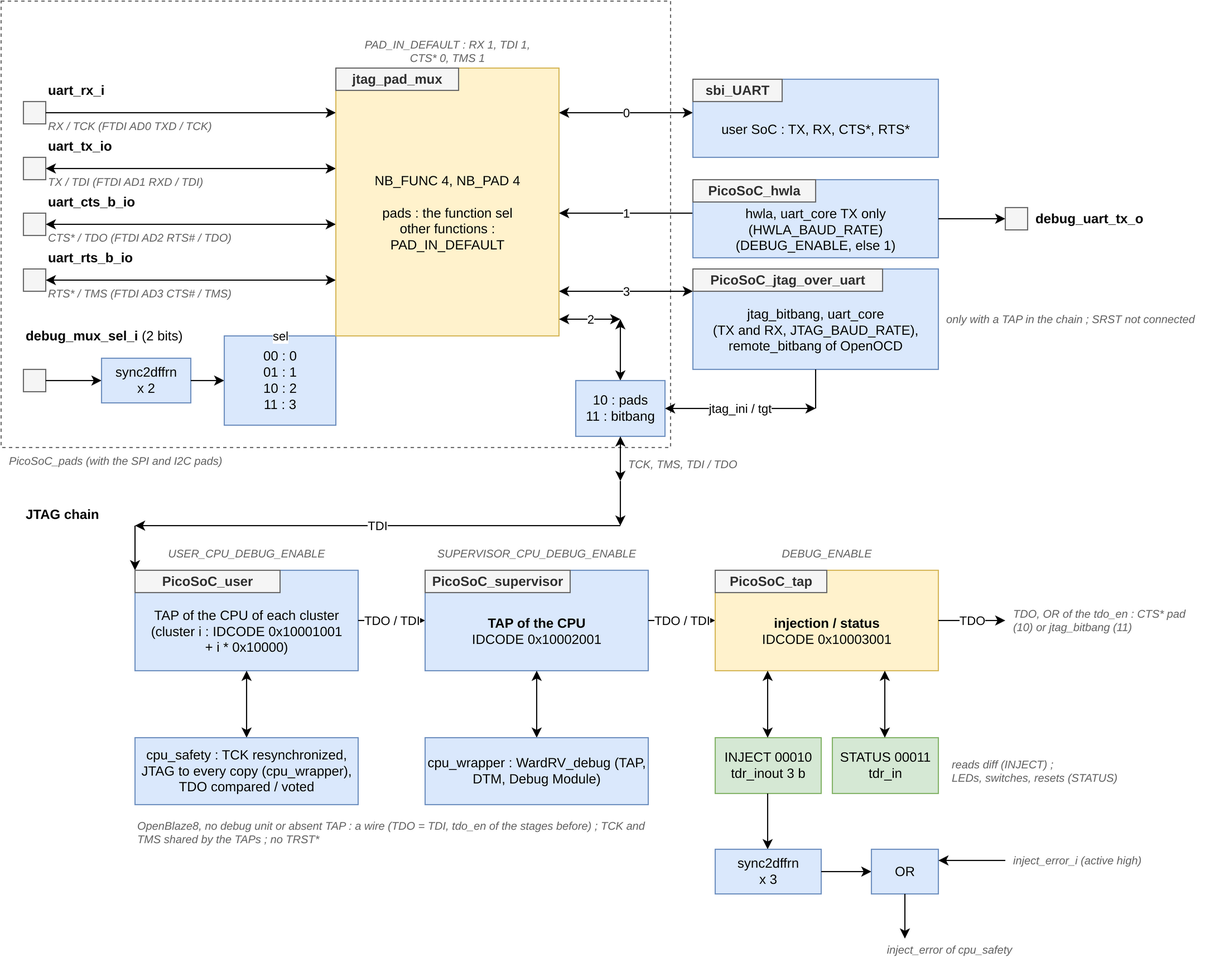
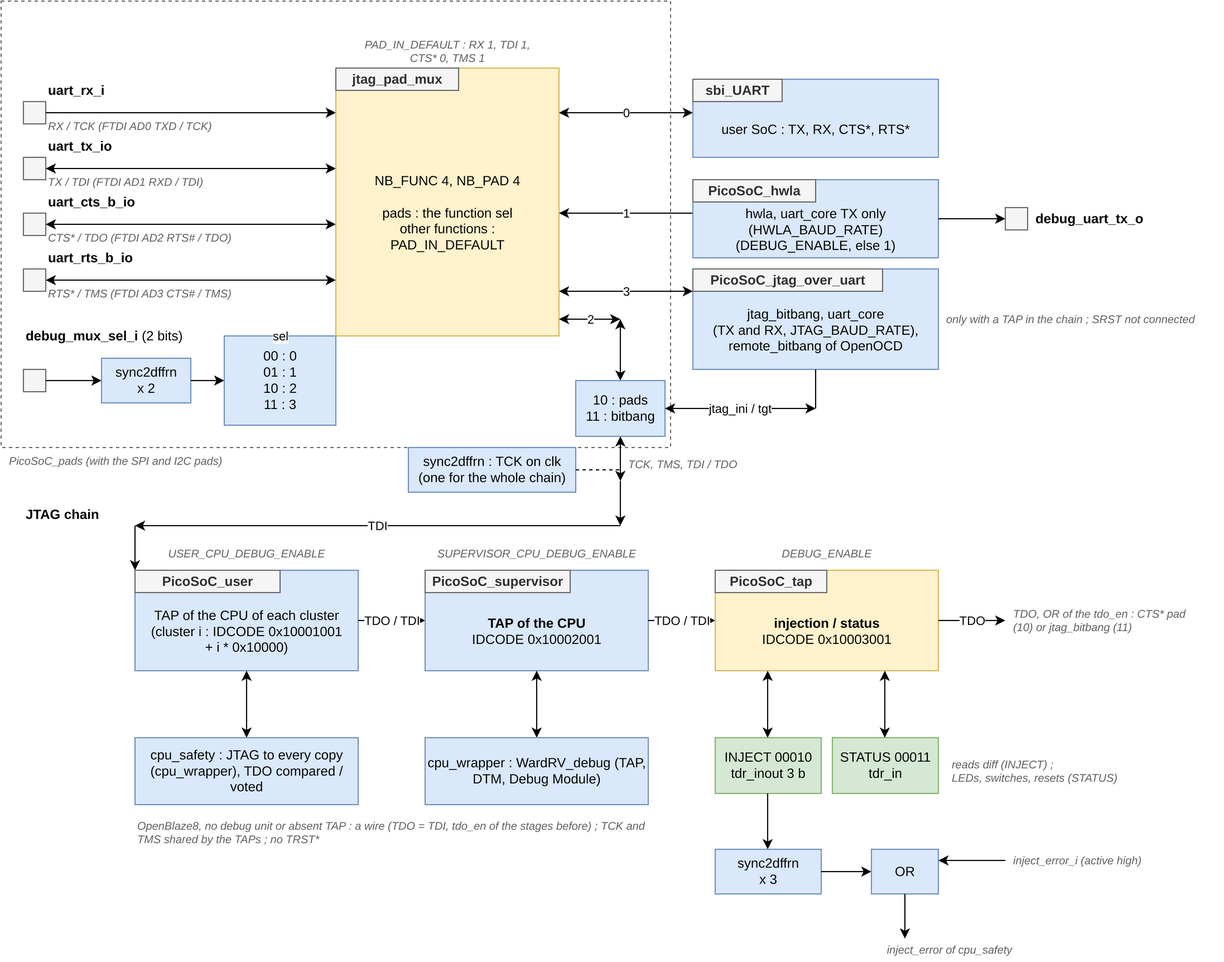
PicoSoC - README : JTAG timing (one TCK synchronizer in PicoSoC_top, where and why, TDO along the chain on the same TCK, TMS / TDI hold), CPU debug units, hierarchy, Resources note, mutant without the global synchronizer (jtag_glitch) ; doc : jtag diagram ; tb comments

Changed region(s): [[0.3099, 0.4611, 0.4959, 0.5226], [0.124, 0.7686, 0.2789, 0.83]]

diff --git a/README.md b/README.md
@@ -349,7 +349,7 @@ With the HWLA ([Debug: HWLA](#debug-hwla)) and the injection / status TAP: the s
 | `syn_wardrv_soc1` (WardRV_fsm) | 2612 | 220 | 1571 | 79 | 165 | 1 | 0 | 13 | 385049.29 | 102.581 |
 | `syn_wardrv_soc4_ng_medium` (WardRV_fsm) | 5785 | 420 | 2638 | 129 | 675 | 2 | 0 | 7 | 600440.87 | 159.964 |
 
-The HWLA and its UART (`PicoSoC_hwla`) cost about 180 to 260 LUTs, 100 (OpenBlaze8) or 116 (WardRV_fsm) LUTRAM for its RAM of 64 x 73 or 87 bits (default `HWLA_*` generics), 280 to 330 flip-flops and 17 CARRY4 on Artix-7, and 170000 to 210000 µm² in sky130, where its RAM becomes flip-flops. The injection / status TAP adds about 80 to 90 flip-flops (its IDCODE, IR and TDR shift registers, the INJECT register and its synchronizers) and up to about 130 LUTs (the LUT count of the `DEBUG_ENABLE` configurations moves with the technology mapping); the CPU debug units (`syn_wardrv_soc4_ng_medium_debug` against `syn_wardrv_soc4_ng_medium` with `DEBUG_ENABLE`) about 3600 LUTs and 1800 flip-flops: a debug unit (TAP, DTM, Debug Module) in each of the 4 WardRV_fsm (3 user copies in TMR and the supervisor) and their debug logic. JTAG over the UART (`jtag_bitbang` and its `uart_core`: receiver and transmitter, their two 16-bit baud rate counters and the RX synchronizer, only with a TAP in the chain) costs about 94 flip-flops, 8 CARRY4, 80 to 160 LUTs and 3600 to 7000 µm² (about 1 to 2 kGE). The first table is measured on 4.4.0 (`uart_core` of asylum-communication-uart 3.1.0 in `PicoSoC_hwla` and `PicoSoC_jtag_over_uart`, `sbi_UART` 3.1.0 built on `uart_core` too): against 4.3.0, the same flip-flops, LUTRAM, CARRY4, BRAM and TBUF in every configuration (the RX synchronizer of JTAG over the UART moved into `uart_core`; the CTS\* synchronizers of the two `uart_core`, whose input is tied to `'0'`, their reset value, are removed by Yosys), the LUT, MUXF and area figures move with the technology mapping only (LUT within 3 %; renaming the `uart_core` instance of `PicoSoC_jtag_over_uart` alone moves `syn_wardrv_soc4_ng_medium_debug` by 40 LUTs and 60 MUXF). The refactoring of 4.3.0 (`cpu_safety`, `PicoSoC_clkrst`, `PicoSoC_jtag_over_uart`), against 4.2.0: the same flip-flops, LUTRAM, CARRY4, BRAM and TBUF in every configuration, the LUT, MUXF and area figures move with the technology mapping only (LUT within 2 %); with `debug_mux_sel_i` the NG-MEDIUM configurations have 4 switches instead of 6: 8 (10 with the status TAP) flip-flops less (the input stages of the 2 switches of the GPIO, their bits of the status TDR); the `DEBUG_ENABLE` table is measured on 4.5.0 (default `HWLA_*` generics): against its 4.2.0 figures, the same LUTRAM, CARRY4, BRAM and TBUF, 2 flip-flops less in `soc1` and 11 less in `soc4_ng_medium` (which has 2 switches less since 4.3.0), the LUT count within 2 %. The configurations without TAP (the first four `syn_*` rows) have no `jtag_bitbang`: the same flip-flops, LUTRAM, CARRY4, BRAM and TBUF as 4.1.0, the LUT count moves with the technology mapping. The two synchronizers of `debug_mux_sel_i` (pad multiplexer) add 4 flip-flops to every configuration; the TCK synchronizers of the injection / status TAP and of the supervisor CPU debug unit (4.7.2, not measured in these tables) add 2 flip-flops each where they exist; the other small differences between versions come from the technology mapping, which changes with the order and the names of the cells of the netlist.
+The HWLA and its UART (`PicoSoC_hwla`) cost about 180 to 260 LUTs, 100 (OpenBlaze8) or 116 (WardRV_fsm) LUTRAM for its RAM of 64 x 73 or 87 bits (default `HWLA_*` generics), 280 to 330 flip-flops and 17 CARRY4 on Artix-7, and 170000 to 210000 µm² in sky130, where its RAM becomes flip-flops. The injection / status TAP adds about 80 to 90 flip-flops (its IDCODE, IR and TDR shift registers, the INJECT register and its synchronizers) and up to about 130 LUTs (the LUT count of the `DEBUG_ENABLE` configurations moves with the technology mapping); the CPU debug units (`syn_wardrv_soc4_ng_medium_debug` against `syn_wardrv_soc4_ng_medium` with `DEBUG_ENABLE`) about 3600 LUTs and 1800 flip-flops: a debug unit (TAP, DTM, Debug Module) in each of the 4 WardRV_fsm (3 user copies in TMR and the supervisor) and their debug logic. JTAG over the UART (`jtag_bitbang` and its `uart_core`: receiver and transmitter, their two 16-bit baud rate counters and the RX synchronizer, only with a TAP in the chain) costs about 94 flip-flops, 8 CARRY4, 80 to 160 LUTs and 3600 to 7000 µm² (about 1 to 2 kGE). The first table is measured on 4.4.0 (`uart_core` of asylum-communication-uart 3.1.0 in `PicoSoC_hwla` and `PicoSoC_jtag_over_uart`, `sbi_UART` 3.1.0 built on `uart_core` too): against 4.3.0, the same flip-flops, LUTRAM, CARRY4, BRAM and TBUF in every configuration (the RX synchronizer of JTAG over the UART moved into `uart_core`; the CTS\* synchronizers of the two `uart_core`, whose input is tied to `'0'`, their reset value, are removed by Yosys), the LUT, MUXF and area figures move with the technology mapping only (LUT within 3 %; renaming the `uart_core` instance of `PicoSoC_jtag_over_uart` alone moves `syn_wardrv_soc4_ng_medium_debug` by 40 LUTs and 60 MUXF). The refactoring of 4.3.0 (`cpu_safety`, `PicoSoC_clkrst`, `PicoSoC_jtag_over_uart`), against 4.2.0: the same flip-flops, LUTRAM, CARRY4, BRAM and TBUF in every configuration, the LUT, MUXF and area figures move with the technology mapping only (LUT within 2 %); with `debug_mux_sel_i` the NG-MEDIUM configurations have 4 switches instead of 6: 8 (10 with the status TAP) flip-flops less (the input stages of the 2 switches of the GPIO, their bits of the status TDR); the `DEBUG_ENABLE` table is measured on 4.5.0 (default `HWLA_*` generics): against its 4.2.0 figures, the same LUTRAM, CARRY4, BRAM and TBUF, 2 flip-flops less in `soc1` and 11 less in `soc4_ng_medium` (which has 2 switches less since 4.3.0), the LUT count within 2 %. The configurations without TAP (the first four `syn_*` rows) have no `jtag_bitbang`: the same flip-flops, LUTRAM, CARRY4, BRAM and TBUF as 4.1.0, the LUT count moves with the technology mapping. The two synchronizers of `debug_mux_sel_i` (pad multiplexer) add 4 flip-flops to every configuration; 4.7.2 (not measured in these tables) has one TCK synchronizer for the whole JTAG chain in `PicoSoC_top` (2 flip-flops, removed by the synthesis without a TAP) in place of one per TAP (2 flip-flops in each user CPU cluster with a debug unit, in the supervisor CPU debug unit, in the injection / status TAP); the other small differences between versions come from the technology mapping, which changes with the order and the names of the cells of the netlist.
 
 ¹ Xilinx Artix-7 (LUT6), Yosys 0.33 `synth_xilinx -flatten -noiopad -noclkbuf`, before place and route: every cell of the netlist is counted, Vivado may differ. An `INV` counts as a `LUT1`. The user ROM goes to BRAM (a `RAMB18E1` counts 0.5), the RAMs and FIFOs mostly to LUTRAM. TBUF: tristate pad buffers (the OBUFT / IOBUF of the I/O blocks, not logic, never in LUT), one per pad whose output enable is not constant: the SPI data lanes (8 in `soc1`, 2 with the NG-MEDIUM generics; SCLK and CS\* are plain outputs), I2C SCL and SDA, and the 3 inout UART pads (TX / TDI, CTS\* / TDO, RTS\* / TMS). The logic that drives the pads (data and output enables, TDO of the JTAG chain) is counted. These figures need `asylum:utils:yosys_synth` >= 1.1.0: older versions lost the logic behind the `inout` pads of component instances (a GHDL synthesis issue) and rejected the tristate buffers.
 
@@ -370,11 +370,11 @@ The NG-MEDIUM board targets (`emu_ng_medium_*`) need NXmap, which is not in the 
 | [hdl/PicoSoC_pads.vhd](hdl/PicoSoC_pads.vhd) | `PicoSoC_pads` | Pads: UART pads shared by the user UART, the HWLA UART, the JTAG chain and JTAG over the UART (`jtag_pad_mux`, `debug_mux_sel_i` synchronizers and select; the JTAG chain driven by the pads or by `jtag_bitbang`), SPI pads (`obuf`, `iobuf`), I2C open-drain pads |
 | [hdl/PicoSoC_hwla.vhd](hdl/PicoSoC_hwla.vhd) | `PicoSoC_hwla` | HWLA of the top: `hwla` on the probes (unconstrained `probe_i`: the width comes from the actual) and the trigger, its captures on a UART 8N1 at `HWLA_BAUD_RATE` (`uart_core`, transmitter only) |
 | [hdl/PicoSoC_jtag_over_uart.vhd](hdl/PicoSoC_jtag_over_uart.vhd) | `PicoSoC_jtag_over_uart` | JTAG over the UART pads (`debug_mux_sel_i` `11`): `uart_core` (receiver and transmitter, `JTAG_BAUD_RATE`, RX synchronizer inside) and `jtag_bitbang`; its JTAG pins drive the chain, the TDO of the chain comes back |
-| [hdl/PicoSoC_tap.vhd](hdl/PicoSoC_tap.vhd) | `PicoSoC_tap` | Injection / status TAP of the top (`DEBUG_ENABLE`): `jtag_tap`, the instruction decoder, the INJECT (`jtag_tdr_inout`, read diff) and STATUS (`jtag_tdr_in`, unconstrained `status_i`) registers, the synchronizers of TCK and of the injection; one stage of the JTAG chain (the top chains the stages) |
+| [hdl/PicoSoC_tap.vhd](hdl/PicoSoC_tap.vhd) | `PicoSoC_tap` | Injection / status TAP of the top (`DEBUG_ENABLE`): `jtag_tap`, the instruction decoder, the INJECT (`jtag_tdr_inout`, read diff) and STATUS (`jtag_tdr_in`, unconstrained `status_i`) registers, the synchronizers of the injection; one stage of the JTAG chain (the top chains the stages) |
 | [hdl/PicoSoC_inject.vhd](hdl/PicoSoC_inject.vhd) | `PicoSoC_inject` | Error injection of the top: the push buttons resynchronized, ORed with the INJECT requests of the TAP, one trap per copy of the CPU (set by a request, cleared by the difference flags of the copy or a 1 -> 0 of the TAP request), power-on reset |
 | [hdl/PicoSoC_user.vhd](hdl/PicoSoC_user.vhd) | `PicoSoC_user` | User SoC: CPU clusters (`cpu_safety`, `ROM_user`, ICN1, GIC, RAM1), ICN2 and the shared peripherals |
 | [hdl/PicoSoC_supervisor.vhd](hdl/PicoSoC_supervisor.vhd) | `PicoSoC_supervisor` | Supervisor SoC: CPU (TCK of its debug unit resynchronized), `ROM_supervisor`, ICN, 2 GPIO, GIC, RAM |
-| [hdl/cpu_safety.vhd](hdl/cpu_safety.vhd) | `cpu_safety` | 1, 2 or 3 copies of the CPU (one generate; records of the inputs and of the outputs of a copy), lock-step delay line and compare, TMR vote, fault injection, JTAG pins of the copies (TCK resynchronized) |
+| [hdl/cpu_safety.vhd](hdl/cpu_safety.vhd) | `cpu_safety` | 1, 2 or 3 copies of the CPU (one generate; records of the inputs and of the outputs of a copy), lock-step delay line and compare, TMR vote, fault injection, JTAG pins of the copies (TCK already resynchronized by `PicoSoC_top`) |
 | [hdl/cpu_wrapper.vhd](hdl/cpu_wrapper.vhd) | `cpu_wrapper` | `sbi_OpenBlaze8` or `sbi_WardRV_fsm` from `CPU_MODEL`; with `DEBUG_ENABLE` (WardRV_fsm) its debug unit `WardRV_debug`, else TDO = TDI |
 | [hdl/PicoSoC_pkg.vhd](hdl/PicoSoC_pkg.vhd) | `PicoSoC_pkg` | Address maps, GIC source indexes, JTAG IDCODEs and instructions, debug records, `active_high` (polarity of an input), components |
 | (generated) | `ROM_user`, `ROM_supervisor` | Program ROMs built from [esw/](esw/) by `pbcc_gen` / `rvcc_gen` |
@@ -500,7 +500,7 @@ Switch the mode of the FPGA before starting the terminal or OpenOCD on the cable
 
 The IDCODEs (`PICOSOC_JTAG_IDCODE_*` of `PicoSoC_pkg`) are version 1, manufacturer 0, part number `0x0001` + `0x10` x `i` for the user CPU of cluster `i`, 2 for the supervisor CPU, 3 for the injection / status TAP.
 
-**Injection / status TAP** (`DEBUG_ENABLE`, `PicoSoC_tap` in [hdl/PicoSoC_tap.vhd](hdl/PicoSoC_tap.vhd)): a `jtag_tap` with its instruction decoder and two test data registers, in the TCK domain (TCK resynchronized on the SoC clock, see JTAG timing below):
+**Injection / status TAP** (`DEBUG_ENABLE`, `PicoSoC_tap` in [hdl/PicoSoC_tap.vhd](hdl/PicoSoC_tap.vhd)): a `jtag_tap` with its instruction decoder and two test data registers, in the TCK domain (the TCK resynchronized on the SoC clock by `PicoSoC_top`, see JTAG timing below):
 
 | Instruction | TDR | Bits (from the LSB, first shifted out) |
 |-------------|-----|----------------------------------------|
@@ -509,9 +509,9 @@ The IDCODEs (`PICOSOC_JTAG_IDCODE_*` of `PicoSoC_pkg`) are version 1, manufactur
 
 The injection written by an Update-DR (falling edge of TCK) goes through a `sync2dffrn` per bit to the SoC clock, then is ORed with `inject_error_i` after its polarity (`USER_FAULT_POLARITY`) and resynchronized, in `PicoSoC_inject`: either sets the trap of the copy (see [CPU safety](#cpu-safety)). The written value stays until the next scan of INJECT, a Test-Logic-Reset or the power-on reset; a bit written back to 0 clears the trap of its copy (the way to stop an error without safety, where no difference flag clears it). The read values are quasi-static (LEDs, switches, sticky difference flags, resets): they are loaded in Capture-DR without synchronizer, a bit that changes during the capture may be read old or new.
 
-**CPU debug units** (`USER_CPU_DEBUG_ENABLE`, `SUPERVISOR_CPU_DEBUG_ENABLE`, `CPU_MODEL = "WardRV_fsm"`): each `cpu_wrapper` with `DEBUG_ENABLE` instantiates `WardRV_debug` of [asylum-processor-WardRV](https://github.com/deuskane/asylum-processor-WardRV) (TAP, DTM, Debug Module with a program buffer of 2 words and 2 data registers, no system bus access, no TRST*) next to its `sbi_WardRV_fsm`: the halt requests and the debug memory stay inside `cpu_wrapper`, which only has the JTAG pins, the power-on reset of the debug unit and `ndmreset`. With lock-step or TMR, every copy of the CPU has its debug unit: `cpu_safety` resynchronizes TCK on the SoC clock (`sync2dffrn`), then gives the JTAG pins to every copy like their other inputs (to CPU1 through the lock-step delay line), and checks their TDO and `ndmreset` like their other outputs (compared with CPU0, which drives them, in lock-step; voted in TMR). So a halted, stepped or resumed CPU stays in lock-step: no difference flag. The supervisor CPU has no copy: `PicoSoC_supervisor` resynchronizes the TCK of its debug unit the same way. The debug units are reset by the reset of the supervisor (power-on), not by a reset of the user SoC; `ndmreset` of a debug unit resets the SoC of its CPU (the supervisor SoC holds the user SoC in reset).
+**CPU debug units** (`USER_CPU_DEBUG_ENABLE`, `SUPERVISOR_CPU_DEBUG_ENABLE`, `CPU_MODEL = "WardRV_fsm"`): each `cpu_wrapper` with `DEBUG_ENABLE` instantiates `WardRV_debug` of [asylum-processor-WardRV](https://github.com/deuskane/asylum-processor-WardRV) (TAP, DTM, Debug Module with a program buffer of 2 words and 2 data registers, no system bus access, no TRST*) next to its `sbi_WardRV_fsm`: the halt requests and the debug memory stay inside `cpu_wrapper`, which only has the JTAG pins, the power-on reset of the debug unit and `ndmreset`. With lock-step or TMR, every copy of the CPU has its debug unit: `cpu_safety` receives a TCK already resynchronized on the SoC clock (by `PicoSoC_top`, see JTAG timing below) and gives the JTAG pins to every copy like their other inputs (to CPU1 through the lock-step delay line), and checks their TDO and `ndmreset` like their other outputs (compared with CPU0, which drives them, in lock-step; voted in TMR). So a halted, stepped or resumed CPU stays in lock-step: no difference flag. The supervisor CPU has no copy: `PicoSoC_supervisor` gives the JTAG pins to its debug unit. The debug units are reset by the reset of the supervisor (power-on), not by a reset of the user SoC; `ndmreset` of a debug unit resets the SoC of its CPU (the supervisor SoC holds the user SoC in reset).
 
-**JTAG timing.** Every TAP of the chain resynchronizes TCK on the SoC clock with the same `sync2dffrn`, reset by the reset of the supervisor (power-on): `cpu_safety` for the user CPU debug units, `PicoSoC_supervisor` for the supervisor CPU debug unit, `PicoSoC_tap` for the injection / status TAP. No TAP is clocked by the TCK pad (or by `tck_r` of `jtag_bitbang`): they all see the same TCK, 2 to 3 SoC clock cycles late. This is not a protocol change (IEEE 1149.1 behaviour unchanged, the probes change TMS and TDI on the falling edge of TCK and sample TDO on the rising edge), but a limit on TCK:
+**JTAG timing.** One `sync2dffrn` in `PicoSoC_top` resynchronizes TCK on the SoC clock for the whole chain, reset by the reset of the supervisor (power-on). It is after the pad multiplexer of `PicoSoC_pads`, so it serves both modes (the TCK pad in mode `10`, `tck_r` of `jtag_bitbang` in mode `11`): one place, the same path in both modes, and a glitch of the multiplexer when the mode changes is filtered too. Every TAP (the user CPU debug units in `cpu_safety`, the supervisor CPU debug unit, the injection / status TAP) gets this TCK: no TAP is clocked by the TCK pad, they all see the same TCK, 2 to 3 SoC clock cycles after the pad, and move on the same SoC clock edge. Only TCK is resynchronized: TMS and TDI go straight to the TAPs. This is not a protocol change (IEEE 1149.1 behaviour unchanged, the probes change TMS and TDI on the falling edge of TCK and sample TDO on the rising edge), but a limit on TCK:
 
 | Parameter | Value |
 |-----------|-------|
@@ -519,9 +519,9 @@ The injection written by an Update-DR (falling edge of TCK) goes through a `sync
 | TMS, TDI hold after the rising edge of TCK | about 3 SoC clock cycles (the edge is seen up to 3 cycles later) |
 | TDO valid after the falling edge of TCK | about 3 SoC clock cycles |
 
-A probe faster than this limit can miss TCK pulses (the scans then fail). Along the chain, a TAP changes its TDO on the falling edge of its resynchronized TCK and the next TAP (its TDI) samples it on the rising edge of its own, half a TCK period later (more than 3 SoC clock cycles); two synchronizers may see a TCK edge one SoC clock cycle apart (an edge in the metastable window of one of them), far less than this margin. The last TDO reaches the probe about 3 SoC clock cycles after the falling edge of the pad, before the next rising edge where the probe samples it.
+A probe faster than this limit can miss TCK pulses (the scans then fail). Along the chain, a TAP changes its TDO on the falling edge of the resynchronized TCK and the next TAP (its TDI) samples it on the rising edge of the same TCK, half a TCK period later (more than 3 SoC clock cycles): every TAP is on the same TCK, there is no skew between them. TMS and TDI, changed by the probe on the falling edge of the pad, are sampled on the rising edge of the resynchronized TCK, 2 to 3 SoC clock cycles after the rising edge of the pad: they must hold that long (the line above), which a TCK high time of more than 3 SoC clock cycles gives. The last TDO reaches the probe about 3 SoC clock cycles after the falling edge of the pad, before the next rising edge where the probe samples it.
 
-Why every TAP: a TAP clocked by the TCK pad takes every glitch or ringing of the TCK wire as an edge, and an edge too close to a change of TMS may be taken with the old TMS. The synchronizer samples the pad once per SoC clock cycle, so a bounce on an edge shorter than a SoC clock period gives one edge, and TMS and TDI are sampled 2 to 3 cycles after the edge of the pad. On the NG-MEDIUM board (`emu_ng_medium_soc3_wardrv_fsm_fault_debug`, FT232R in synchronous bitbang at 10 kHz, mode `10`), the injection / status TAP, then the only one clocked by the pad besides the supervisor CPU debug unit, lost its state: the 3 IDCODEs were read, then OpenOCD failed from time to time (`auto0.tap IR capture error` on this TAP only, `Unsupported DTM version 9`: the STATUS of this TAP read instead of `dtmcs`, `picosoc_status` all zeros) until a reset of the board, while JTAG over the UART (mode `11`, TCK made inside the FPGA on the SoC clock) always worked. The scenario `jtag_glitch` reads the IDCODEs of the chain with a bounce on every TCK edge of the scan: it passes with the resynchronized TCK and fails when one TAP is clocked by the pad.
+Why a resynchronized TCK for every TAP: a TAP clocked by the TCK pad takes every glitch or ringing of the TCK wire as an edge, and an edge too close to a change of TMS may be taken with the old TMS. The synchronizer samples the pad once per SoC clock cycle, so a bounce on an edge shorter than a SoC clock period gives one edge, and TMS and TDI are sampled 2 to 3 cycles after the edge of the pad. Why one synchronizer: every TAP sees exactly the same edges (with one synchronizer per TAP, an edge in the metastable window could be seen one SoC clock cycle apart by two TAPs), there is one place to read, and `cpu_safety`, rewritten by the students, only receives a TCK already on the SoC clock. On the NG-MEDIUM board (`emu_ng_medium_soc3_wardrv_fsm_fault_debug`, FT232R in synchronous bitbang at 10 kHz, mode `10`), the injection / status TAP, then clocked by the pad like the supervisor CPU debug unit (only the user CPU debug units resynchronized TCK, in `cpu_safety`), lost its state: the 3 IDCODEs were read, then OpenOCD failed from time to time (`auto0.tap IR capture error` on this TAP only, `Unsupported DTM version 9`: the STATUS of this TAP read instead of `dtmcs`, `picosoc_status` all zeros) until a reset of the board, while JTAG over the UART (mode `11`, TCK made inside the FPGA on the SoC clock) always worked. The scenario `jtag_glitch` reads the IDCODEs of the chain with a bounce on every TCK edge of the scan: it passes with the resynchronized TCK and fails without the synchronizer of `PicoSoC_top`.
 
 The testbench uses TCK = 1 µs; the co-simulation with OpenOCD runs at the limit (TCK = `FSYS_INT` / 8, see [Co-simulation with OpenOCD and GDB](#co-simulation-with-openocd-and-gdb)). JTAG over the UART (mode `11`) is always far below this limit: a TCK edge per command byte, at least 10 bit times.
 
@@ -989,9 +989,9 @@ The scenario `hwla` was validated with 21 mutants in copies of the RTL, both CPU
 
 The UART pads and the JTAG scenarios were validated with 30 mutants in copies of the RTL, each scenario run alone on the 3 JTAG configurations (and `fault_diff` for the buttons), 420 runs: pad select decode (`10`, `01`, wrong switch bit), TDO of the chain from another TAP, a CPU TAP missing from the chain, injection without the buttons, without the TDR, ORed before the polarity or inverted, INJECT / STATUS decoded the other way round, diff not read, STATUS fields swapped, output enables stuck or wrong in one mode (RTS* / TMS stuck at 1 or 0, CTS* / TDO driven in a UART mode, TX / TDI driven in the JTAG mode, TDO always driven), CTS* default inactive, debug requests not reaching CPU1 (lock-step) or CPU2 (TMR), debug memory answers of CPU1 not delayed, `ndmreset` not connected, no synchronizer input: 27 are killed. The 3 survivors are not observable with the fault model of the SoC or the firmware: RX default `0` (the break received by the user UART out of its modes only feeds the echo, which goes to the unselected TX pad), no compare and no vote of the debug memory accesses of the copies (`inject_error_i` flips the instructions of the program ROM, the debug code comes from the Debug Module: a fault never reaches these accesses).
 
-The debug units in `cpu_wrapper` were validated with 10 more mutants (each scenario alone on the JTAG configurations, 100 runs): a copy of the CPU without the JTAG pins (CPU1 lock-step or TMR, CPU2 TMR), the JTAG pins of CPU1 not delayed, the OpenBlaze8 wire broken (TDO = 0) and the supervisor SoC before the user SoC in the chain are killed. Equivalent with the fault model of the SoC (the copies stay identical, `inject_error_i` never reaches the debug units): TDO and `ndmreset` not compared (lock-step) or not voted (TMR). TCK not resynchronized in `cpu_safety` passes these scenarios: the race it avoids (a TCK edge seen one SoC clock earlier by CPU0 than through the lock-step delay line) needs an edge at the same time as a clock edge, a metastable case of the board; it is killed by `jtag_glitch` (below).
+The debug units in `cpu_wrapper` were validated with 10 more mutants (each scenario alone on the JTAG configurations, 100 runs): a copy of the CPU without the JTAG pins (CPU1 lock-step or TMR, CPU2 TMR), the JTAG pins of CPU1 not delayed, the OpenBlaze8 wire broken (TDO = 0) and the supervisor SoC before the user SoC in the chain are killed. Equivalent with the fault model of the SoC (the copies stay identical, `inject_error_i` never reaches the debug units): TDO and `ndmreset` not compared (lock-step) or not voted (TMR). TCK not resynchronized (then in `cpu_safety`, now in `PicoSoC_top`) passes these scenarios: the race it avoids (a TCK edge seen one SoC clock earlier by CPU0 than through the lock-step delay line) needs an edge at the same time as a clock edge, a metastable case of the board; it is killed by `jtag_glitch` (below).
 
-The resynchronization of TCK in front of every TAP was validated with 4 mutants in copies of the RTL, each run on `sim_soc3_wardrv_fsm_fault_c_user_uart_jtag_jtag_glitch` (chain of 3 TAPs, as `emu_ng_medium_soc3_wardrv_fsm_fault_debug`): the TCK pad as the clock of the injection / status TAP (`PicoSoC_tap`), of the supervisor CPU debug unit (`PicoSoC_supervisor`), of both (the RTL before the resynchronization), or of the user CPU debug unit (`cpu_safety`): all are killed: the IDCODEs read with the bounces are wrong for the TAP clocked by the pad and for every TAP between it and TDI (its extra shifts move their bits).
+The resynchronization of TCK in front of every TAP was validated with 4 mutants in copies of the RTL, each run on `sim_soc3_wardrv_fsm_fault_c_user_uart_jtag_jtag_glitch` (chain of 3 TAPs, as `emu_ng_medium_soc3_wardrv_fsm_fault_debug`): the TCK pad as the clock of the injection / status TAP (`PicoSoC_tap`), of the supervisor CPU debug unit (`PicoSoC_supervisor`), of both (the RTL before the resynchronization), or of the user CPU debug unit (`cpu_safety`): all are killed: the IDCODEs read with the bounces are wrong for the TAP clocked by the pad and for every TAP between it and TDI (its extra shifts move their bits). Since 4.7.2 one synchronizer in `PicoSoC_top` serves every TAP; the mutant without it (every TAP clocked by the TCK pad) is killed by the same target: the IDCODEs read with the bounces are `000000000000000002200210` instead of `100010011000200110003001`.
 
 The trap of the error injection (`PicoSoC_inject`) was validated with 6 mutants in copies of the RTL, each run on the `trap_*` targets and the TMR fault targets: no trap (the request goes straight to the CPUs, as before) is killed by the 4 `trap_*` scenarios (a request of one cycle is lost); the lock-step trap of CPU1 cleared by `diff(1)` instead of `diff(0)` by `trap_cpu1` and `trap_reset` (the trap of CPU1 never clears: one reset after another); the trap reset by the reset of the user SoC by `trap_reset` and `trap_tap`; no clear by the 1 -> 0 of INJECT by `trap_tap`. In TMR, a trap cleared by any flag of its copy (`diff(0) or diff(2)` for CPU0) instead of both is killed by `fault_tmr` and the Modbus `fault_tmr` (both CPUs): after a first error voted out, the flags of the faulty copy stay set and also involve the other copies, whose second error is then never injected.
 
